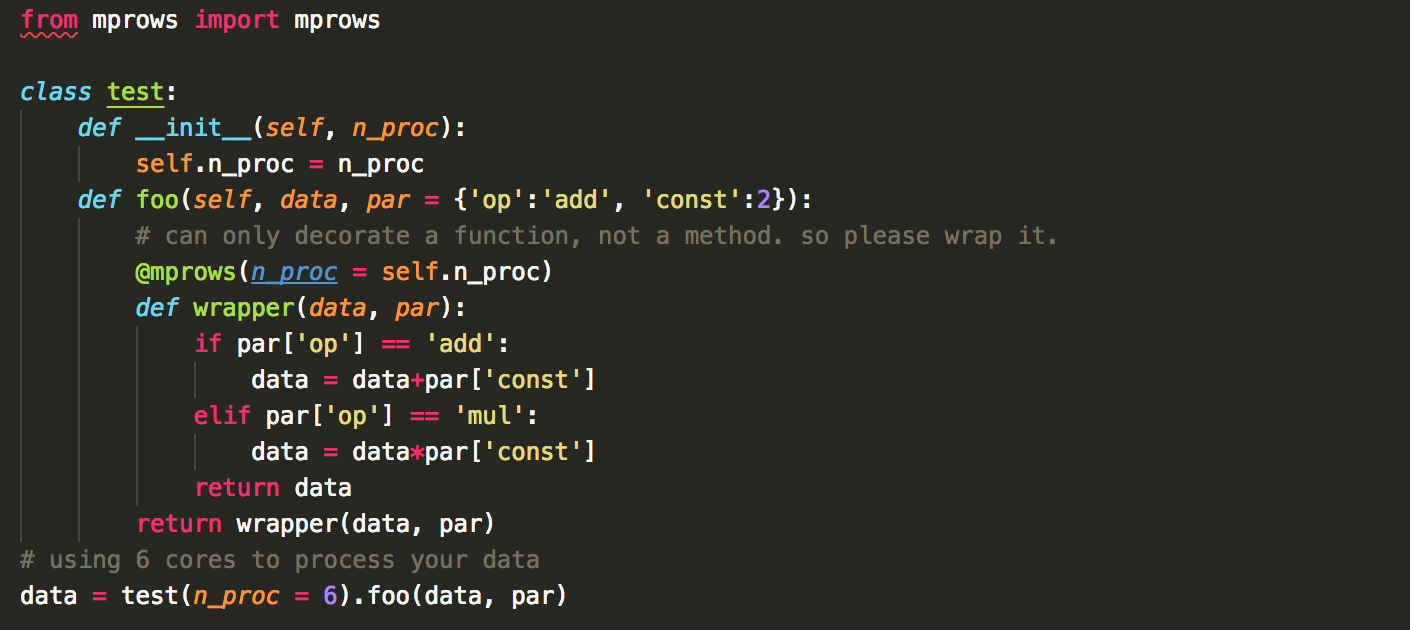
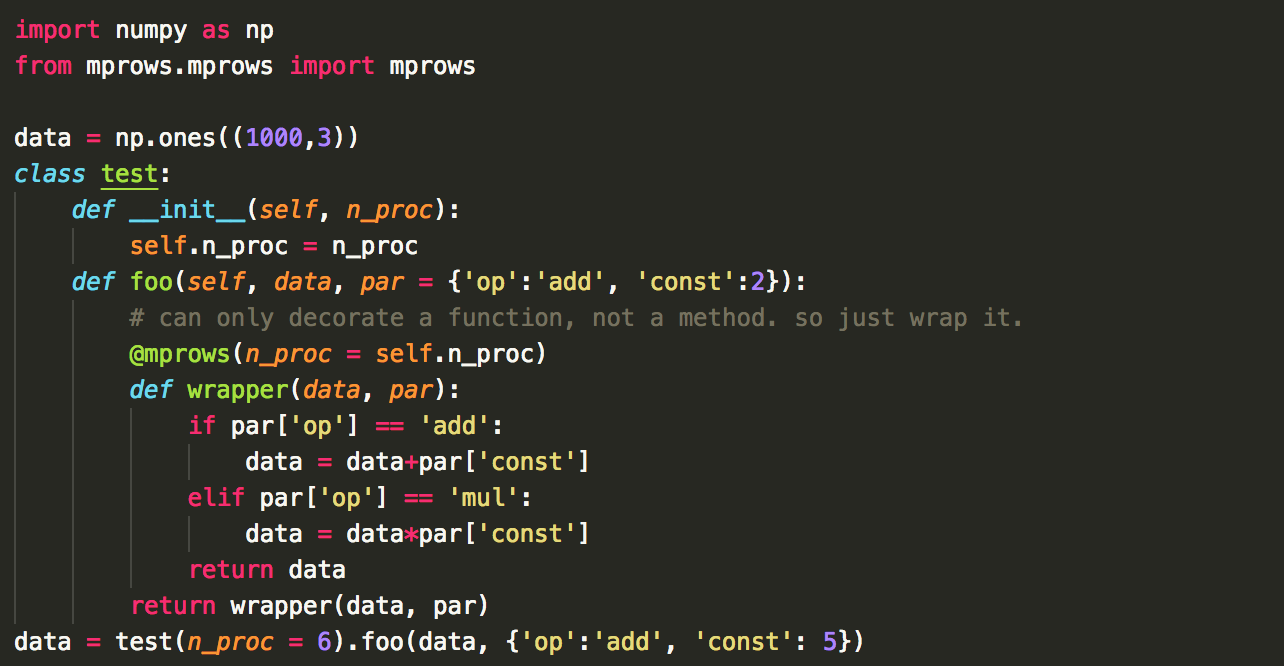
fix examples and readme issues

Changed region(s): [[0.0, 0.0905, 0.7788, 0.9952], [0.0, 0.0, 0.2804, 0.0603]]

diff --git a/mprows/mprows.py b/mprows/mprows.py
@@ -65,37 +65,4 @@ class mprows:
             return data
         return decorator           
 
-if __name__ == '__main__':
-    task = 'class'  # 'class' / 'func'
-    par = {'op':'add', 'const': 5}
-    n_proc = 1
-    # ==================================
-    data = np.ones((1000,3))
-    if task == 'class':
-        class test:
-            def __init__(self, n_proc):
-                self.n_proc = n_proc
-            def foo(self, data, par = {'op':'add', 'const':2}):
-                @mprows(n_proc = self.n_proc)
-                def foo_in(data, par):
-                    if par['op'] == 'add':
-                        data = data+par['const']
-                    elif par['op'] == 'mul':
-                        data = data*par['const']
-                    return data
-                return foo_in(data, par)        
-        data = test(n_proc = n_proc).foo(data, par)
-    elif task == 'func':
-        @mprows(n_proc = n_proc)
-        def foo(data, par = {'op':'add', 'const':2}):
-            if par['op'] == 'add':
-                data = data+par['const']
-            elif par['op'] == 'mul':
-                data = data*par['const']
-            return data
-        data = foo(data, par)
-
-    print(data)
-
-
 

diff --git a/example/example.py b/example/example.py
@@ -1,12 +1,12 @@
 '''
 this code shows how to use mprows to multiprocessing your function
 '''
+import numpy as np
+from mprows.mprows import mprows
 
-from mprows import mprows
-
-task = 'class'  # 'class' / 'func'
+task = 'func'  # 'class' / 'func'
 par = {'op':'add', 'const': 5}
-n_proc = 1
+n_proc = 5
 
 # ==================================
 data = np.ones((1000,3))

diff --git a/README.md b/README.md
@@ -32,7 +32,7 @@ when you build your own function, it must built based in this form:
 ## Example
 You must first import mprows:  
 
-**from mprows import mprows**   
+**from mprows.mprows import mprows**   
 
 Then you can simply program your own function and use mprows as a decorator for multiprocessing. 
 
